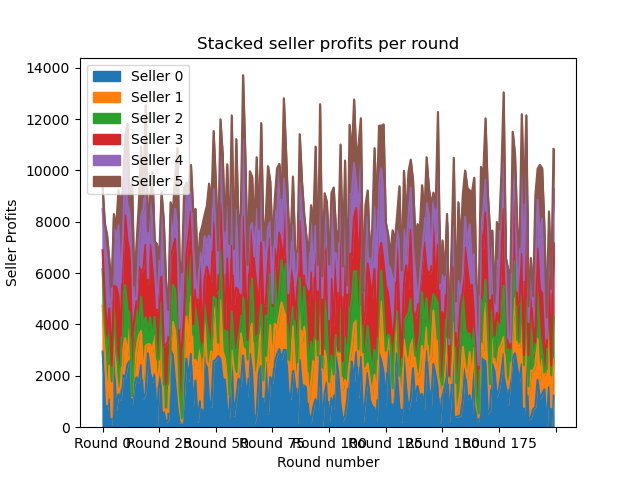
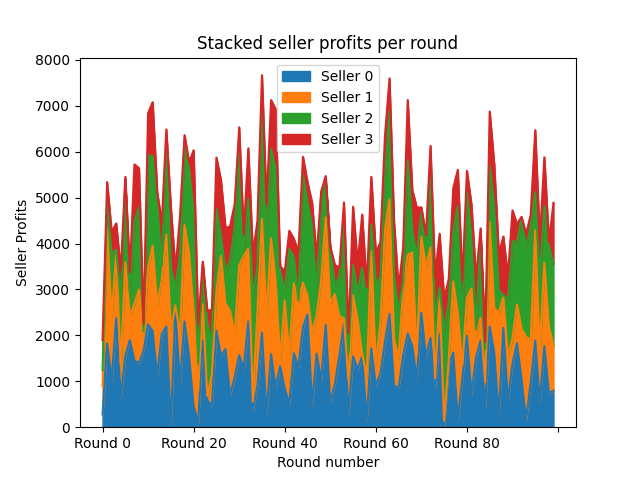
changed the default values to 4 4 and 100 and fixed the winner calculation

diff --git a/ass2/auctioning.py b/ass2/auctioning.py
@@ -488,7 +488,7 @@ class Item:
 
     def get_winner_id_and_payout(self):
         current_market_price = self.get_market_price()
-        eligible_buyers = self.current_bids[self.current_bids[:, 1] < current_market_price]
+        eligible_buyers = self.current_bids[self.current_bids[:, 1] <= current_market_price]
         eligible_buyers = eligible_buyers[eligible_buyers[:, 1].argsort()[::-1]]
 
         if len(eligible_buyers) == 0:

diff --git a/ass2/main.py b/ass2/main.py
@@ -50,9 +50,9 @@ output_button = None
 auction = None
 
 # parameters
-n_sellers = 2
-n_buyers = 2
-n_rounds = 2
+n_sellers = 4
+n_buyers = 4
+n_rounds = 100
 current_auction_type = auction_pure
 current_pricing_type = price_type_random
 current_bidding_strategy = bidding_advanced
